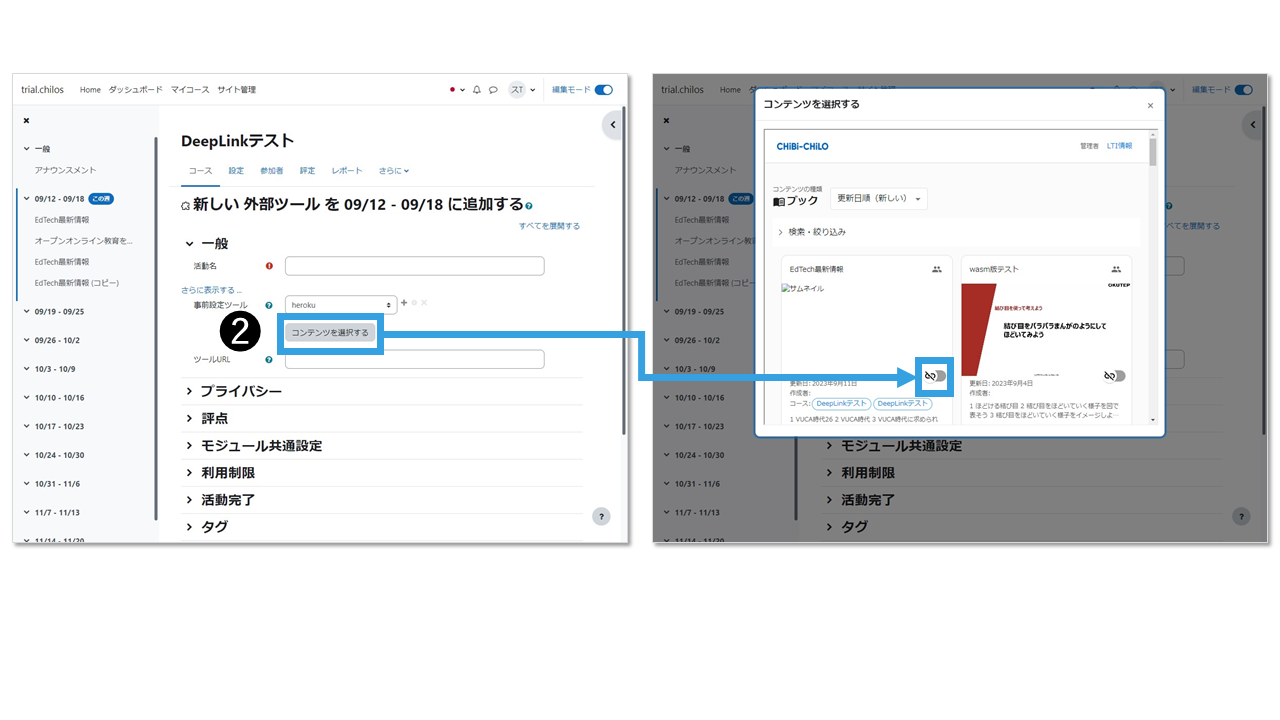
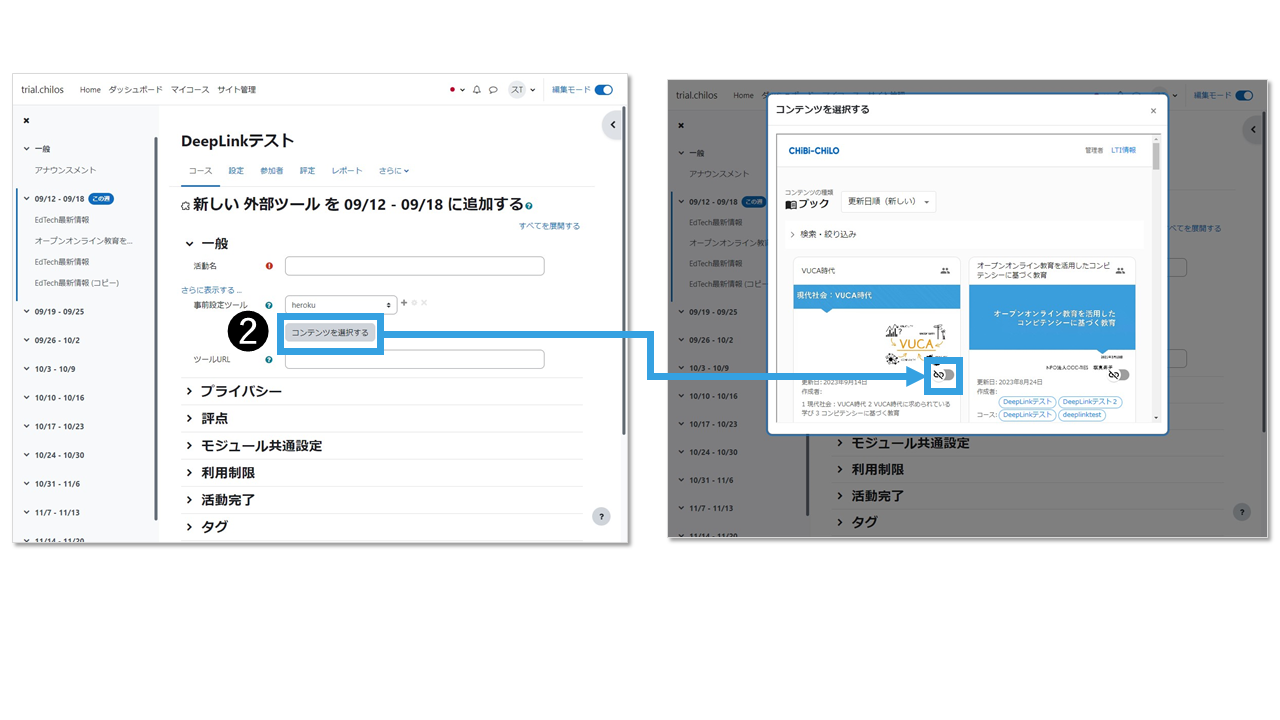
deeplinkの画像修正

Changed region(s): [[0.5, 0.0917, 1.0, 0.7639], [0.1562, 0.4278, 0.2188, 0.4889]]

diff --git a/book/deeplink.md b/book/deeplink.md
@@ -17,7 +17,7 @@ description: >-
 
 「コンテンツを選択する」をクリックしてブック一覧から，登録したいブックの配信ボタンをクリックします．
 
-（画像）
+![](../.gitbook/assets/deeplink\_02.png)
 
 ## ❸保存してコースに戻る
 
